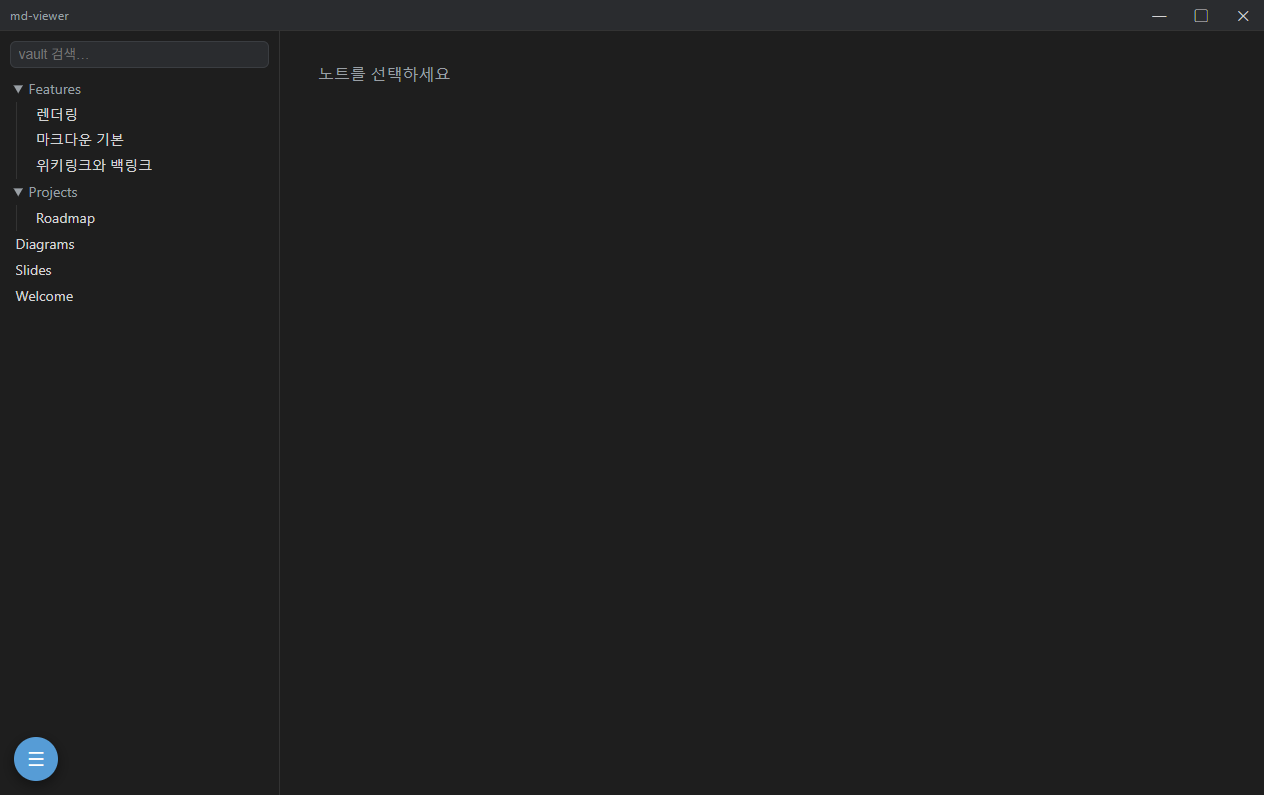
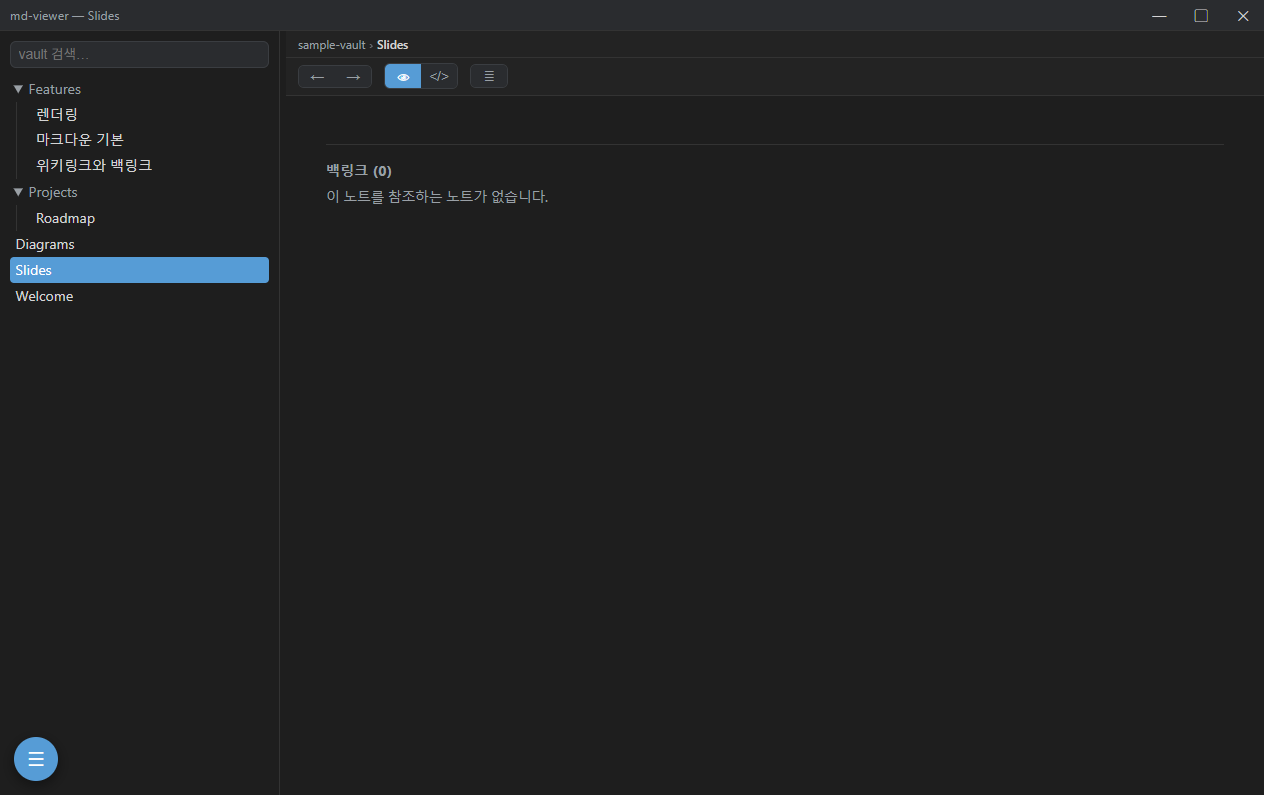
문서 쇼케이스 큐레이션 (부각 패스)
핵심 강점을 앞세우는 편집 방향으로 README/Welcome/sample-vault 재정리.

- README: 제목 아래 한 줄 가치제안(폐쇄망 git pull 하나로) + "왜 md-viewer?"
  차별점 5줄(오프라인 의존0/다이어그램4종/Marp발표/Obsidian호환/전문검색).
  스크린샷 갤러리 임팩트순 재배치(다이어그램·그래프 선두 → Marp·렌더링 → 검색),
  캡션 가치 지향.
- sample-vault/Welcome.md: 첫 화면이 강점 한눈에 보이게 재구성 — 가치제안 +
  "먼저 볼 것"(Diagrams·Slides 시각 강점 선두) + Ctrl+P 안내 + 체크리스트를
  차별점(완전 오프라인/4종·발표·그래프/검색) 위주로.
- sample-vault/Slides.md: 발표자 노트(<!-- -->) 추가로 발표자 뷰 기능 시연 +
  발표 모드(F/P/Shift+P)·차별점 슬라이드로 보강.
- 스크린샷 5종 재생성(현행 코드/새 Slides 반영). 발표자 뷰 컷은 헤드리스 캡처
  레이아웃 한계로 보류(텍스트+데모로 부각).
- test-vault: Welcome 본문 검사 문자열을 새 제목으로 갱신.

diff --git a/sample-vault/Welcome.md b/sample-vault/Welcome.md
@@ -1,24 +1,28 @@
-# md-viewer 데모 vault에 오신 걸 환영합니다
+# md-viewer 데모 vault
 
 ![로고](assets/logo.svg)
 
-이 vault는 **md-viewer의 기능을 한눈에 보여주는 쇼케이스**입니다. 좌측 트리에서
-노트를 열어보세요. 좌하단 **☰ 메뉴**에서 원본 보기·테마·확대 등을 바꿀 수 있습니다.
+**폐쇄망에서 `git pull` 하나로 도는 Obsidian형 마크다운 뷰어.** 인터넷 없이
+다이어그램 · 발표 · 그래프 · 검색까지 — 이 vault로 직접 확인해 보세요.
 
-## 둘러보기
+좌측 트리에서 노트를 열고, 좌하단 **☰ 메뉴**에서 테마 · 원본 보기 · 그래프 뷰 등을 켜보세요.
 
-- [[Features/마크다운 기본]] — 서식 · 표 · 코드 · 인용 · 체크박스
-- [[Features/위키링크와 백링크]] — `[[링크]]` · 별칭 · 헤딩 앵커 · 백링크
+## 먼저 볼 것 (강점 한눈에)
+
+- [[Diagrams]] — **다이어그램 4종 오프라인**: Mermaid · draw.io · D2 · PlantUML
+- [[Slides]] — **Marp 발표**: 전체화면(F) · 발표자 보기(P) · 청중 이중 창(Shift+P)
+- [[Features/위키링크와 백링크]] — `[[링크]]` · 별칭 · 헤딩 앵커 · 백링크 패널
 - [[Features/렌더링]] — 콜아웃 · 수식(KaTeX) · 코드 하이라이트 · 태그 · 임베드
-- [[Diagrams]] — Mermaid · draw.io · D2 · PlantUML
-- [[Slides]] — Marp 슬라이드 (`marp: true`, 전체화면/발표자)
+- [[Features/마크다운 기본]] — 서식 · 표 · 코드 · 인용 · 체크박스
 - [[Projects/Roadmap]] — 체크박스 다단계 상태
+
+> 🔍 좌측 상단 검색창 또는 **Ctrl+P**(빠른 전환기)로 노트를 바로 찾을 수 있습니다.
 
 ## 핵심 기능 체크리스트
 
-- [x] 폴더 트리 + 마크다운 렌더링
-- [x] 위키링크 / 백링크
-- [x] 다이어그램 4종
+- [x] 완전 오프라인 (런타임 외부 의존 0)
+- [x] 다이어그램 4종 · Marp 발표 · 그래프 뷰
+- [x] 위키링크 / 백링크 / 전문 검색
 - [/] 더 많은 기능 (진행 중)
 - [ ] 여러분의 노트
 

diff --git a/README.md b/README.md
@@ -1,20 +1,32 @@
 # md-viewer
 
-사내 폐쇄망(외부 인터넷 차단) 환경에서 동작하는 Obsidian형 Markdown 뷰어.
+> **폐쇄망에서 `git pull` 하나로 끝나는 Obsidian형 마크다운 뷰어.**
+> 다이어그램 4종 · Marp 발표 · 그래프 뷰 · 전문 검색까지, 인터넷 없이 그대로.
+
+사내 폐쇄망(외부 인터넷 차단) 환경을 위한 **자체완결** Markdown 뷰어입니다.
+빌드만 인터넷 PC에서 하고, 폐쇄망에서는 받아서 실행만 합니다.
+
+## 왜 md-viewer?
+
+- **런타임 외부 의존 0** — 모든 라이브러리가 `vendor/` 에 포함. CDN·네트워크 불필요.
+- **다이어그램 4종 오프라인** — Mermaid · draw.io · D2(WASM) · PlantUML(번들 JRE).
+- **Marp 발표** — 전체화면 재생 · 발표자 뷰 · **청중 이중 창** · PDF/PNG/SVG/HTML export.
+- **Obsidian 호환** — 위키링크 `[[…]]` · 백링크 · 그래프 뷰 · 임베드 · 태그.
+- **전문 검색** — vault 본문 인덱스 + 하이라이트 + 매치 네비게이션.
 
 ## 스크린샷
 
-| 렌더링 (콜아웃·수식·코드) | 다이어그램 (Mermaid·draw.io·D2·PlantUML) |
+| 다이어그램 4종 (오프라인) | 그래프 뷰 (노트 링크 시각화) |
 |---|---|
-| ![렌더링](docs/screenshots/rendering.png) | ![다이어그램](docs/screenshots/diagrams.png) |
+| ![다이어그램](docs/screenshots/diagrams.png) | ![그래프](docs/screenshots/graph.png) |
 
-| 전문 검색 + 하이라이트 | 그래프 뷰 |
+| Marp 슬라이드 (발표 · Export) | 렌더링 (콜아웃 · 수식 · 코드) |
 |---|---|
-| ![검색](docs/screenshots/search.png) | ![그래프](docs/screenshots/graph.png) |
+| ![Marp](docs/screenshots/marp.png) | ![렌더링](docs/screenshots/rendering.png) |
 
-| Marp 슬라이드 |
+| 전문 검색 + 하이라이트 |
 |---|
-| ![Marp](docs/screenshots/marp.png) |
+| ![검색](docs/screenshots/search.png) |
 
 > 스크린샷은 `npx electron scripts/capture-screenshots.js` 로 sample-vault 기준 재생성.
 

diff --git a/sample-vault/Slides.md b/sample-vault/Slides.md
@@ -2,31 +2,41 @@
 marp: true
 ---
 
-# md-viewer 데모 슬라이드
+# md-viewer
 
-이 노트는 `marp: true` frontmatter 가 있어 **슬라이드 모드**로 열립니다.
+**폐쇄망에서 그대로 도는** Obsidian형 마크다운 뷰어
 
-좌우 화살표(◀ ▶) 또는 키보드 방향키로 넘기세요.
-
----
-
-## 오프라인 동작
-
-- 모든 라이브러리는 `vendor/` 에 포함
-- 외부 네트워크 불필요
-- git pull + electron.exe 만으로 실행
+<!-- 발표자 노트: 이 줄은 발표자 뷰(P)에만 보입니다. 청중 창에는 안 나옵니다.
+F=전체화면 재생, P=발표자 보기, Shift+P=청중 창 이중 발표. -->
 
 ---
 
-## 다이어그램 지원
+## 왜 md-viewer?
 
-- Mermaid
-- draw.io (보기 전용)
-- D2 (WASM)
-- PlantUML (Java)
+- **런타임 외부 의존 0** — `git pull` + 실행만, 인터넷 불필요
+- **다이어그램 4종 오프라인** — Mermaid · draw.io · D2 · PlantUML
+- **Marp 발표** — 전체화면 · 발표자 뷰 · 청중 이중 창
+- **Obsidian 호환** — 위키링크 · 백링크 · 그래프 뷰 · 전문 검색
+
+<!-- 발표자 노트: 핵심 차별점은 "폐쇄망 자체완결". 빌드는 인터넷 PC에서,
+실행은 폐쇄망에서 git pull 만으로. -->
+
+---
+
+## 발표 모드
+
+- `F` — 전체화면 재생 (슬라이드 화면 꽉참)
+- `P` — 발표자 보기 (현재 + 다음 + 노트 + 타이머)
+- `Shift+P` — **청중 이중 창** (외부 모니터 전체화면 + 발표자 뷰)
+- `←/→ · ↑/↓ · 휠` 네비, `B/W` 블랙·화이트, `G` 오버뷰
+
+<!-- 발표자 노트: 지금 이 화면이 발표자 뷰입니다. 왼쪽 큰 슬라이드 + 오른쪽
+다음 슬라이드 미리보기 + 이 노트 + 상단 경과 타이머. -->
 
 ---
 
 # 끝
 
-[[Welcome]] 로 돌아가기 (일반 노트)
+[[Welcome]] 로 돌아가기 · [[Diagrams]] 다이어그램 보기
+
+<!-- 발표자 노트: 청중 창에서 ESC 누르면 발표 종료(양쪽 정리). -->
